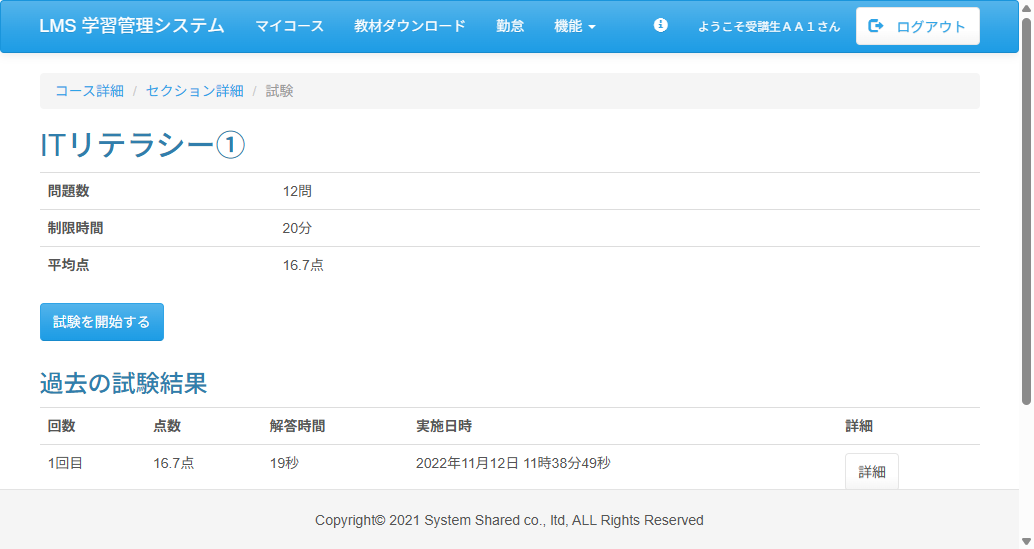
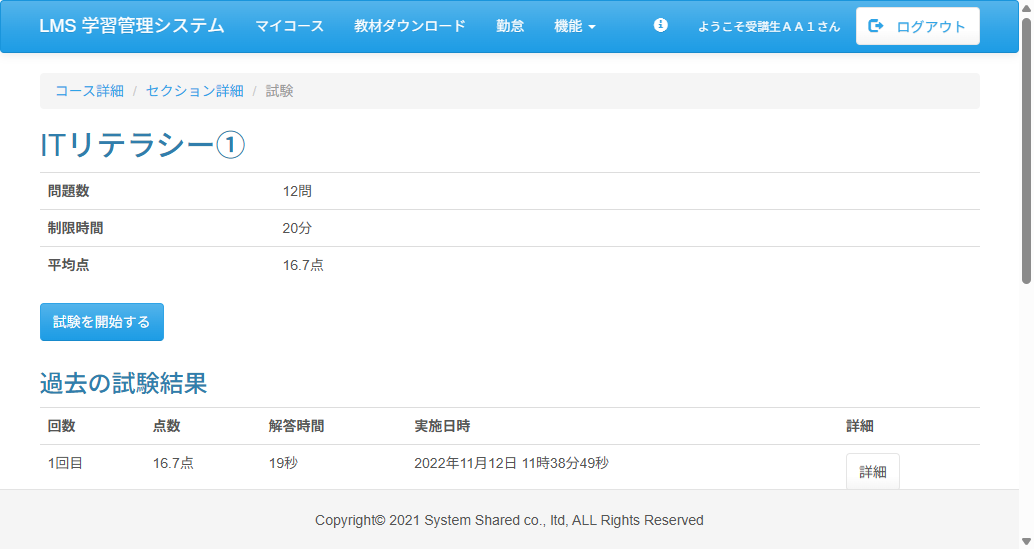
fix:Hibiki ExamItLiteracy1Page.java追記
テストの回答のラジオボタン12個をクリックするメソッドを追加

diff --git a/test_code_creation_name/src/test/java/jp/co/sss/lms/ct/f05_exam/ExamItLiteracy1Page.java b/test_code_creation_name/src/test/java/jp/co/sss/lms/ct/f05_exam/ExamItLiteracy1Page.java
@@ -30,6 +30,42 @@ public class ExamItLiteracy1Page {
 	@FindBy(xpath = "//input[@type='submit' and @value='戻る']")
 	private WebElement backBtn;
 	
+	@FindBy(id = "answer-0-2")
+	private WebElement answer1RadioButton;
+	
+	@FindBy(id = "answer-1-2")
+	private WebElement answer2RadioButton;
+	
+	@FindBy(id = "answer-2-0")
+	private WebElement answer3RadioButton;
+	
+	@FindBy(id = "answer-3-0")
+	private WebElement answer4RadioButton;
+	
+	@FindBy(id = "answer-4-1")
+	private WebElement answer5RadioButton;
+	
+	@FindBy(id = "answer-5-1")
+	private WebElement answer6RadioButton;
+	
+	@FindBy(id = "answer-6-0")
+	private WebElement answer7RadioButton;
+	
+	@FindBy(id = "answer-7-0")
+	private WebElement answer8RadioButton;
+	
+	@FindBy(id = "answer-8-0")
+	private WebElement answer9RadioButton;
+	
+	@FindBy(id = "answer-9-0")
+	private WebElement answer10RadioButton;
+
+	@FindBy(id = "answer-10-0")
+	private WebElement answer11RadioButton;
+	
+	@FindBy(id = "answer-11-0")
+	private WebElement answer12RadioButton;
+	
 	public ExamItLiteracy1Page(WebDriver driver) {
 		this.driver = driver;
 		this.wait = new WebDriverWait(driver, Duration.ofSeconds(10));
@@ -52,5 +88,20 @@ public class ExamItLiteracy1Page {
 
 	public void clickBackBtn() {
 		js.executeScript("arguments[0].click();", backBtn);
+	}
+
+	public void selectAnswer() {
+		answer1RadioButton.click();
+		answer2RadioButton.click();
+		answer3RadioButton.click();
+		answer4RadioButton.click();
+		answer5RadioButton.click();
+		answer6RadioButton.click();
+		answer7RadioButton.click();
+		answer8RadioButton.click();
+		answer9RadioButton.click();
+		answer10RadioButton.click();
+		answer11RadioButton.click();
+		answer12RadioButton.click();
 	}
 }